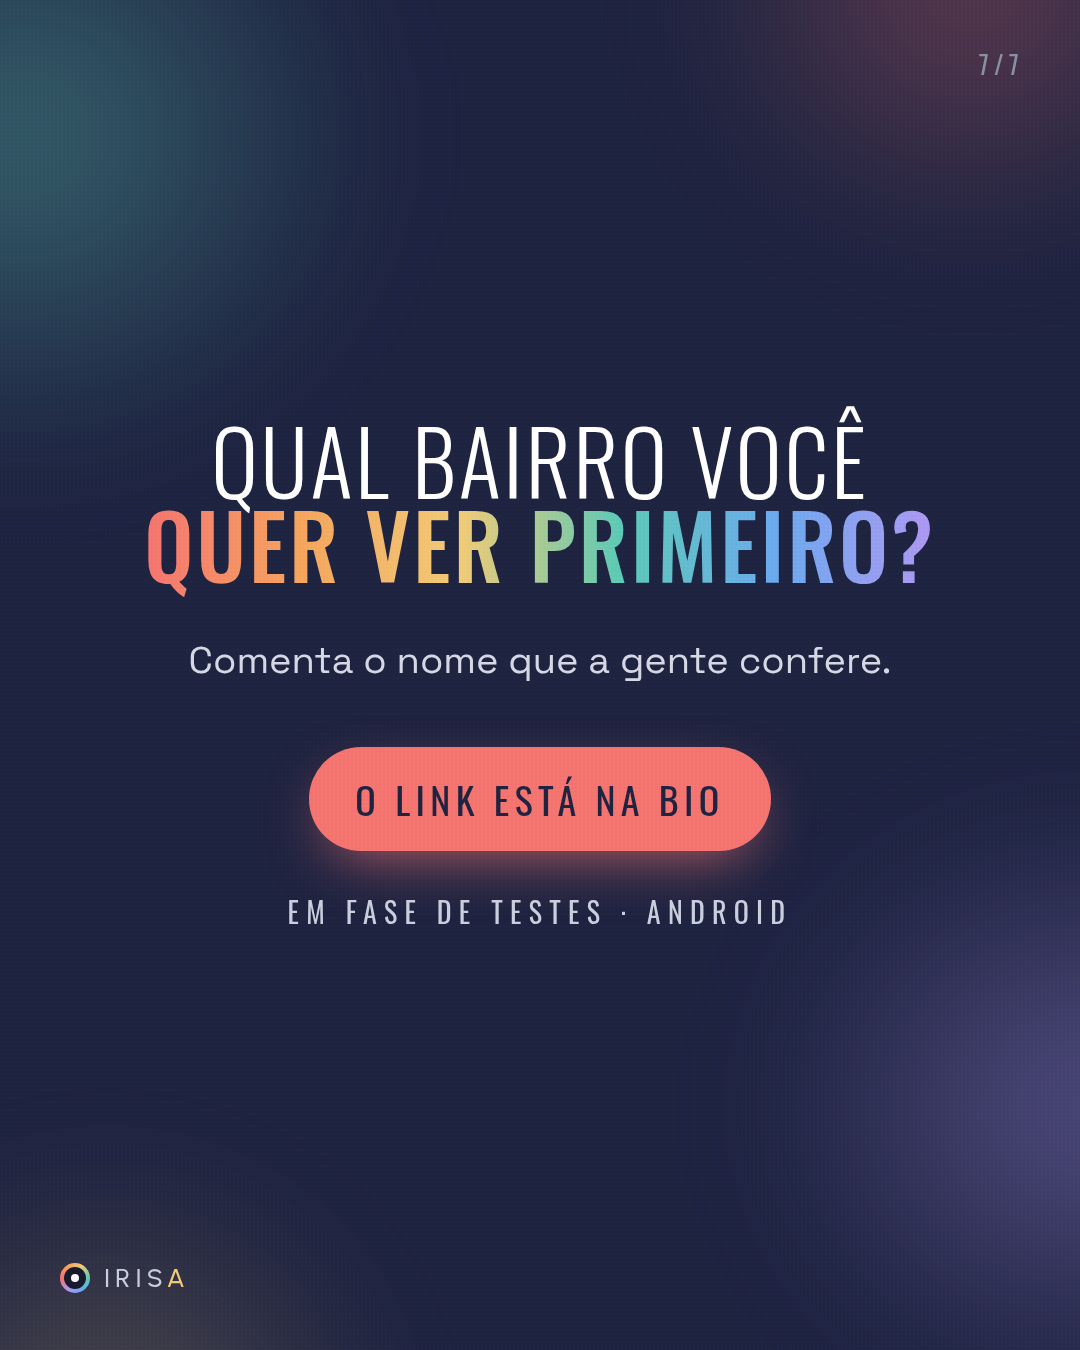
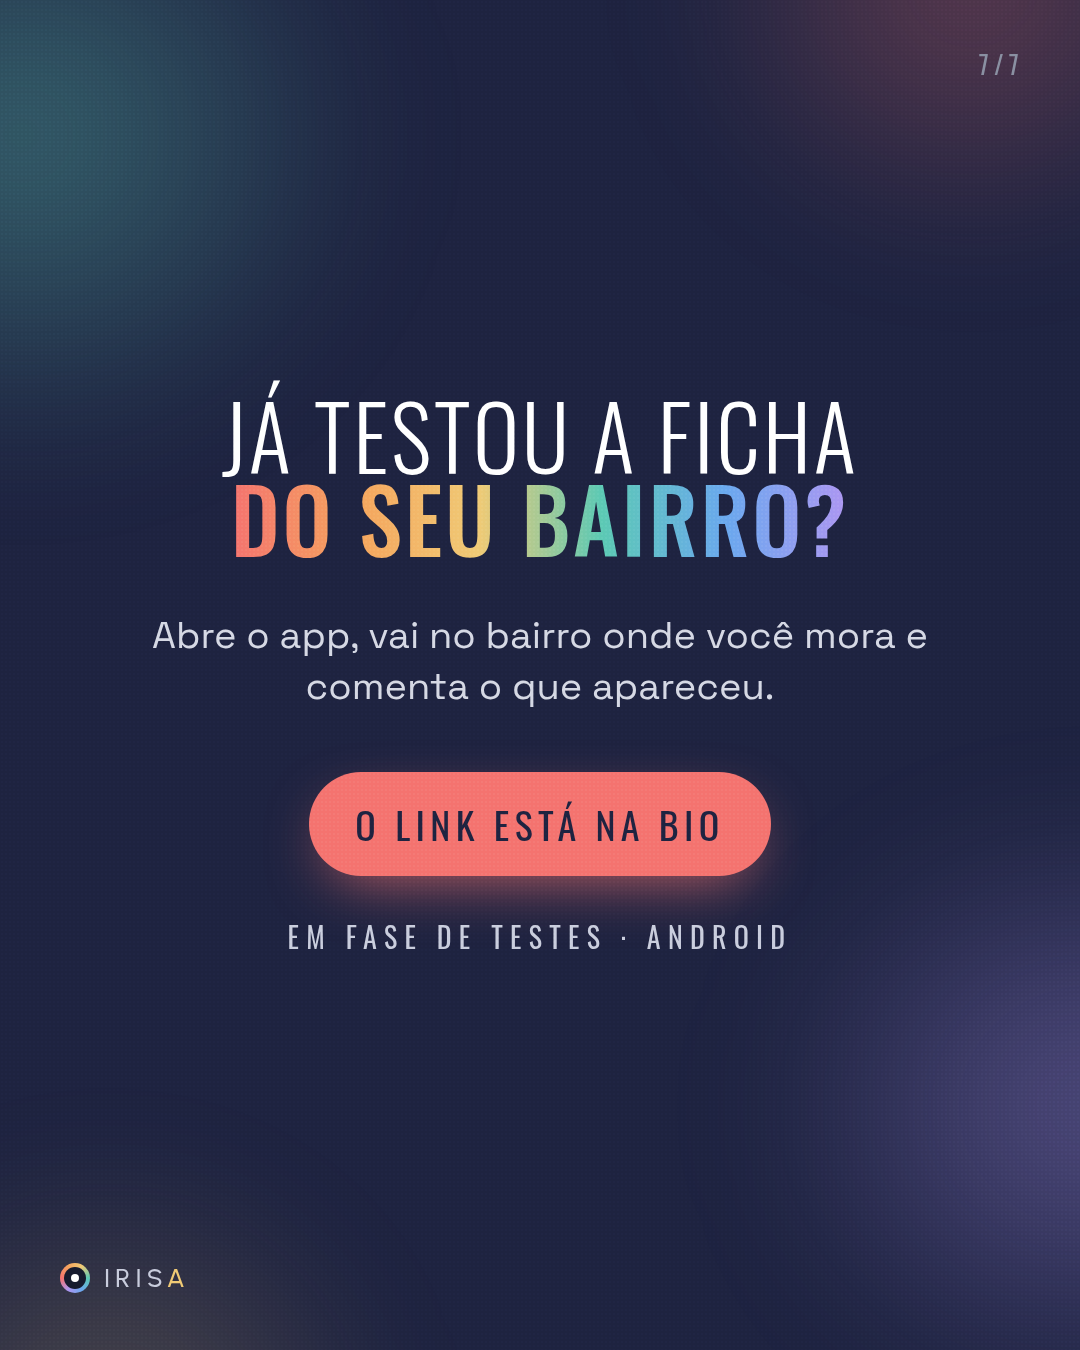
Otimiza cronograma com dados 2026 e corrige CTA confuso do carrossel 7
Horarios de post movidos pra terca-quinta 19h (pico real segundo Buffer/
Metricool 2026); stories preenchem o fim de semana em vez de deixar
buraco. CTA "qual bairro voce quer ver primeiro" trocado por algo
acionavel (abrir o app e conferir o proprio bairro). Fecho do carrossel 3
ajustado pra pedir salvar, nao so comentar (sinal mais pesado em 2026).

Pendencia registrada: falta 1 Reels novo na fila (unico formato sem peca
pronta; maior alcance pra quem nao segue ainda).

Claude-Session: https://claude.ai/code/session_0176HYo5tdrbP7aNB4p2bYzc

Changed region(s): [[0.1222, 0.28, 0.8861, 0.7156]]

diff --git a/docs/carrossel-7.html b/docs/carrossel-7.html
@@ -126,8 +126,8 @@ p{margin:0}
   <div class="halo h1"></div><div class="halo h2"></div><div class="grain"></div>
   <div class="num">7/7</div>
   <div class="brand"><span class="mark"></span><span>Iris<b style="color:var(--yellow);font-weight:500">a</b></span></div>
-  <p class="big c" style="font-size:88px;margin:0 50px 50px"><span style="font-weight:300">Qual bairro você</span><br><span class="rainbow">quer ver primeiro?</span></p>
-  <p class="body c">Comenta o nome que a gente confere.</p>
+  <p class="big c" style="font-size:88px;margin:0 50px 50px"><span style="font-weight:300">Já testou a ficha</span><br><span class="rainbow">do seu bairro?</span></p>
+  <p class="body c">Abre o app, vai no bairro onde você mora e comenta o que apareceu.</p>
   <span class="pill" style="background:var(--coral);font-size:38px;padding:24px 46px;margin-top:60px;box-shadow:0 20px 60px -20px rgba(244,115,111,.8)">O link está na bio</span>
   <div class="small c" style="margin-top:40px;color:#C9CDDD">em fase de testes · Android</div>
 </section>

diff --git a/docs/legendas/CRONOGRAMA.md b/docs/legendas/CRONOGRAMA.md
@@ -1,19 +1,45 @@
-# Cronograma — backlog já renderizado (26/09 a 30/09)
+# Cronograma — otimizado com dados de 2026 (Metricool, Buffer, estudos de algoritmo)
 
 Regra fixa em todo post: fixar o primeiro comentário com **bit.ly/appirisa**. Responder todo
 comentário no mesmo dia. Link nunca vai na legenda nem na arte, só no comentário fixado e na bio.
 
+## Por que esses horários e dias
+
+- **Terça a quinta, 19h**: janela de maior engajamento em 2026 segundo Buffer (9,6M posts) e
+  Metricool — bate com o pico real de todo dia (18h–21h) e evita concentrar tudo no fim de
+  semana, que os dados não mostram como mais forte pra alcance.
+- **Meio-dia pros stories**: segundo pico do dia (pausa de almoço), usado pra manter presença
+  nos dias sem post de feed em vez de deixar buraco.
+- **Carrossel > post único**: maior taxa de engajamento de qualquer formato em 2026 (~0,50%
+  por seguidor) — mantido como base pros temas educativos.
+- **CTA de salvar/compartilhar**: shares por DM e salvamentos pesam mais que curtida e mais
+  que comentário simples no ranking de 2026; ajustado o fecho do carrossel 3 pra pedir "salva"
+  além de comentar.
+
+## Calendário
+
 | dia | hora | peça | legenda |
 |---|---|---|---|
-| sáb 26/09 | 12h | story `stories-2/01` (quiz) | `stories-2.md` § 1 |
-| sáb 26/09 | 18h | carrossel 3 — Sem nome. Sem perfil. Sem rastro. | `carrossel-3.txt` |
-| dom 27/09 | 12h | story `stories-2/02` (caixa de pergunta) | `stories-2.md` § 2 |
-| dom 27/09 | 18h | post-bemvinde | `post-bemvinde.txt` |
-| seg 28/09 | 12h | story `stories-2/03` (enquete) | `stories-2.md` § 3 |
-| seg 28/09 | 18h | carrossel 4 — Emergência e apoio por cidade | `carrossel-4.txt` |
-| ter 29/09 | 12h | story `stories-2/04` (três coisas que o app não pede) | `stories-2.md` § 4 |
-| qua 30/09 | 18h | carrossel 5 — O lugar recebe cor. A rua recebe aviso. | `carrossel-5.txt` |
-| sex 02/10 | 18h | carrossel 6 — Mito ou verdade | `carrossel-6.txt` |
+| ter 29/09 | 19h | carrossel 3 — Sem nome. Sem perfil. Sem rastro. | `carrossel-3.txt` |
+| qua 30/09 | 19h | post-bemvinde | `post-bemvinde.txt` |
+| qui 01/10 | 19h | carrossel 4 — Emergência e apoio por cidade | `carrossel-4.txt` |
+| sex 02/10 | 12h | story `stories-2/01` (quiz) | `stories-2.md` § 1 |
+| sáb 03/10 | 12h | story `stories-2/02` (caixa de pergunta) | `stories-2.md` § 2 |
+| dom 04/10 | 12h | story `stories-2/03` (enquete) | `stories-2.md` § 3 |
+| seg 05/10 | 12h | story `stories-2/04` (três coisas que o app não pede) | `stories-2.md` § 4 |
+| ter 06/10 | 19h | carrossel 5 — O lugar recebe cor. A rua recebe aviso. | `carrossel-5.txt` |
+| qua 07/10 | 19h | carrossel 6 — Mito ou verdade | `carrossel-6.txt` |
+| qui 08/10 | 19h | carrossel 7 — Ficha do bairro | `carrossel-7.txt` |
 
-Depois de 02/10: backlog zerado, volta pro ritmo de conteúdo novo (radar de temas ainda não
-cobertos — ficha do bairro, aba Lugares, nota bayesiana, bastidores, ONGs parceiras).
+Termina 08/10, dois dias antes do fim do teste fechado (10/10) — folga proposital.
+
+## Pendência real (não simulada)
+
+**Falta um Reels novo.** É o único formato ainda sem peça pronta na fila, e os dados de 2026
+mostram alcance ~4x maior que imagem única — é o que mais falta pra alcançar gente que ainda
+não segue (a conta tem 9 seguidores). Construir isso é o próximo passo, não um placeholder:
+precisa de cenas novas em HTML/CSS animado (mesmo sistema do `story.html`), 45–60 s (faixa de
+melhor retenção pra conteúdo narrativo/educativo em 2026), sem repetir o roteiro já publicado.
+
+Fontes: Buffer (9,6M posts), Metricool Instagram Study 2026, Later/Hootsuite guias de
+algoritmo 2026, Social Insider (6M reels).
